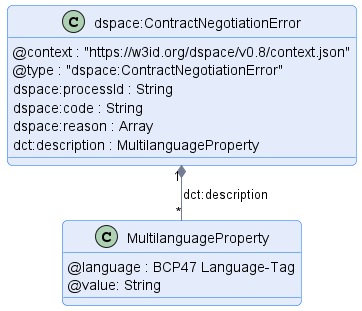
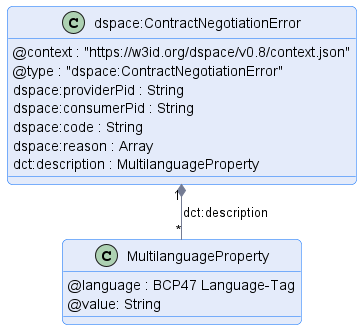
feat(CN): change processId to providerPid and consumerPid

Changed region(s): [[0.0, 0.0, 1.0, 1.0]]

diff --git a/negotiation/contract.negotiation.protocol.md b/negotiation/contract.negotiation.protocol.md
@@ -58,7 +58,7 @@ The CN state machine is transitioned upon receipt and acknowledgement of a messa
 
 **Resulting State**: REQUESTED, TERMINATED
 
-**Example**: [ContractRequestMessage](./message/contract-request-message.json)
+**Example**: [Initiating ContractRequestMessage](./message/contract-request-message_initial.json), [ContractRequestMessage](./message/contract-request-message.json)
 
 **Response**: [ACK or ERROR.](#response-types)
 
@@ -66,13 +66,13 @@ The CN state machine is transitioned upon receipt and acknowledgement of a messa
 
 #### Description
 
-The `ContractRequestMessage` is sent by a consumer to initiate a contract negotiation.
+The `ContractRequestMessage` is sent by a consumer to initiate a contract negotiation or to respond to a `ContractOfferMessage` sent by a provider.
 
 #### Notes
 
-- The consumer must include an `offer` property, which itself must have a `@id` property. If the message includes a `processId` property, the request will be associated with an existing contract
-  negotiation and a consumer offer will be created using either the `offer` or `offer.@id` properties. If the message does not include a `processId`, a new contract negotiation
-  will be created using either the `offer` or `offer.@id` properties and the provider selects an appropriate `processId`.
+- The consumer must include an `offer` property, which itself must have a `@id` property. If the message includes a `providerPid` property, the request will be associated with an existing contract
+  negotiation and a consumer offer will be created using either the `offer` or `offer.@id` properties. If the message does not include a `providerPid`, a new contract negotiation
+  will be created on provider side using either the `offer` or `offer.@id` properties and the provider selects an appropriate `providerPid`.
 
 - An `offer.@id` will generally refer to an offer contained in a catalog. If the provider is not aware of the `offer.@id` value, it must respond with an error message.
 
@@ -90,7 +90,7 @@ The `ContractRequestMessage` is sent by a consumer to initiate a contract negoti
 
 **Resulting State**: OFFERED, TERMINATED
 
-**Example**: [ContractOfferMessage](./message/contract-offer-message.json)
+**Example**: [Initiating ContractOfferMessage](./message/contract-offer-message_initial.json), [ContractOfferMessage](./message/contract-offer-message.json)
 
 **Response**: [ACK or ERROR.](#response-types)
 
@@ -98,7 +98,12 @@ The `ContractRequestMessage` is sent by a consumer to initiate a contract negoti
 
 #### Description
 
-The `ContractOfferMessage` is sent by a provider to initiate a contract negotiation.
+The `ContractOfferMessage` is sent by a provider to initiate a contract negotiation or to respond to a `ContractRequestMessage` sent by a consumer.
+
+### Notes
+
+If the message includes a `consumerPid` property, the request will be associated with an existing contract negotiation. If the message does not include a `consumerPid`, a new contract negotiation
+will be created on consumer side and the consumer selects an appropriate `consumerPid`.
 
 #### Notes
 
@@ -122,7 +127,7 @@ The `ContractOfferMessage` is sent by a provider to initiate a contract negotiat
 
 The `ContractAgreementMessage` is sent by a provider when it agrees to a contract. It contains the complete contract agreement with the provider's signature.
 
-A `ContractAgreementMessage` must contain a `processId`.
+A `ContractAgreementMessage` must contain a `consumerPid` and a `providerPid`.
 
 A `ContractAgreementMessage` must contain an ODRL `Agreement`.
 
@@ -153,7 +158,7 @@ contract (i.e. the "connectors").
 The `ContractAgreementVerificationMessage` is sent by a consumer to verify the acceptance of a contract agreement. A provider responds with an error if the signature can't be
 validated or is incorrect.
 
-A `ContractAgreementVerificationMessage` must contain a `processId`.
+A `ContractAgreementVerificationMessage` must contain a `consumerPid` and a `providerPid`.
 
 ### 5. ContractNegotiationEventMessage
 
@@ -185,6 +190,8 @@ It is an error for a provider to send a `ContractNegotiationEventMessage` with a
 Note that contract events are not intended for propagation of agreement state after a contract negotiation has entered a terminal state. It is considered an error for a consumer or
 provider to send a contract negotiation event after the negotiation state machine has entered a terminal state.
 
+A `ContractNegotiationEventMessage` must contain a `consumerPid` and a `providerPid`.
+
 ### 6. ContractNegotiationTerminationMessage
 
 ![](./message/diagram/contract-negotiation-termination-message.png)
@@ -203,6 +210,8 @@ provider to send a contract negotiation event after the negotiation state machin
 
 The `ContractNegotiationTerminationMessage` is sent by a consumer or provider indicating it has cancelled the negotiation sequence. The message can be sent at any state of a negotiation
 without providing an explanation. Nevertheless, the sender may provide a description to help the receiver.
+
+A `ContractNegotiationTerminationMessage` must contain a `consumerPid` and a `providerPid`.
 
 #### Notes
 
@@ -230,8 +239,7 @@ without providing an explanation. Nevertheless, the sender may provide a descrip
 
 #### Description
 
-The `ContractNegotiation` is an object returned by a consumer or provider indicating a
-successful state change happened.
+The `ContractNegotiation` is an object returned by a consumer or provider indicating a successful state change happened.
 
 ### ERROR - ContractNegotiationError
 
